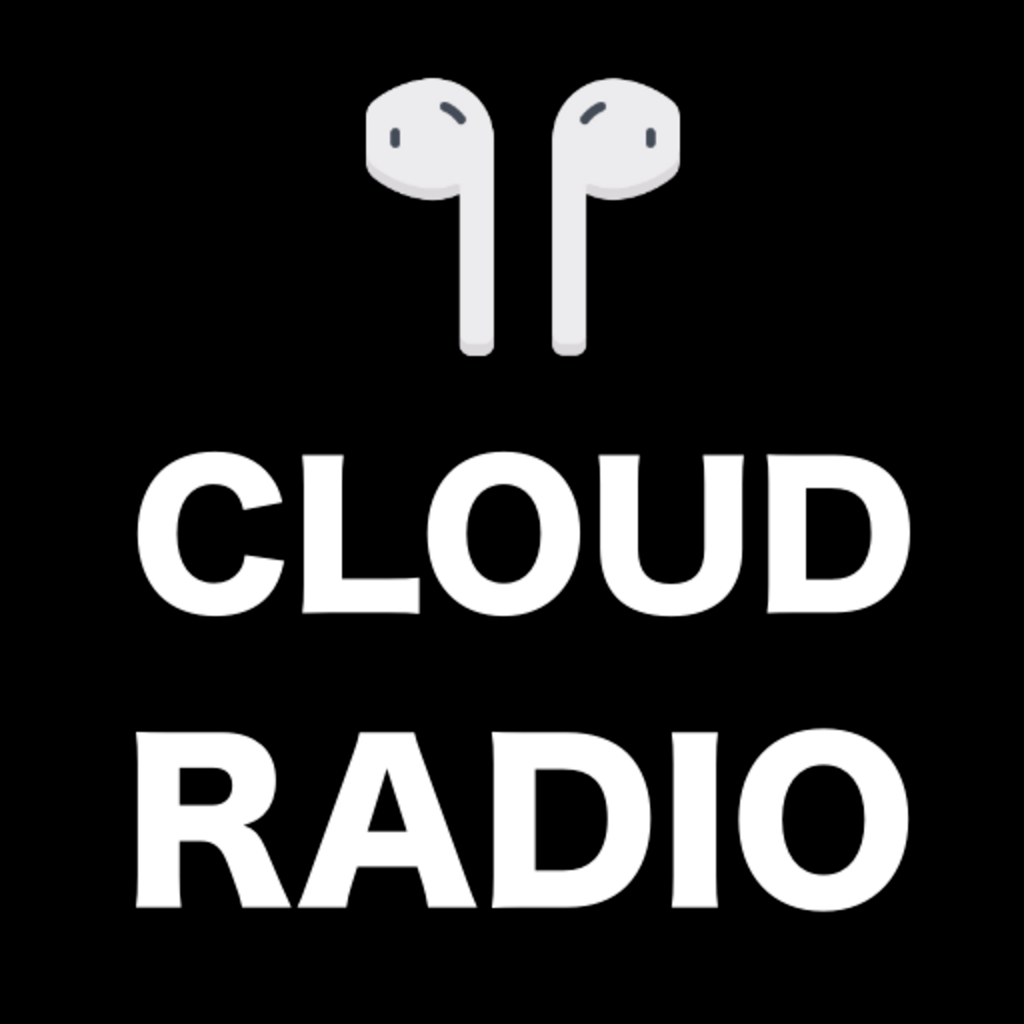
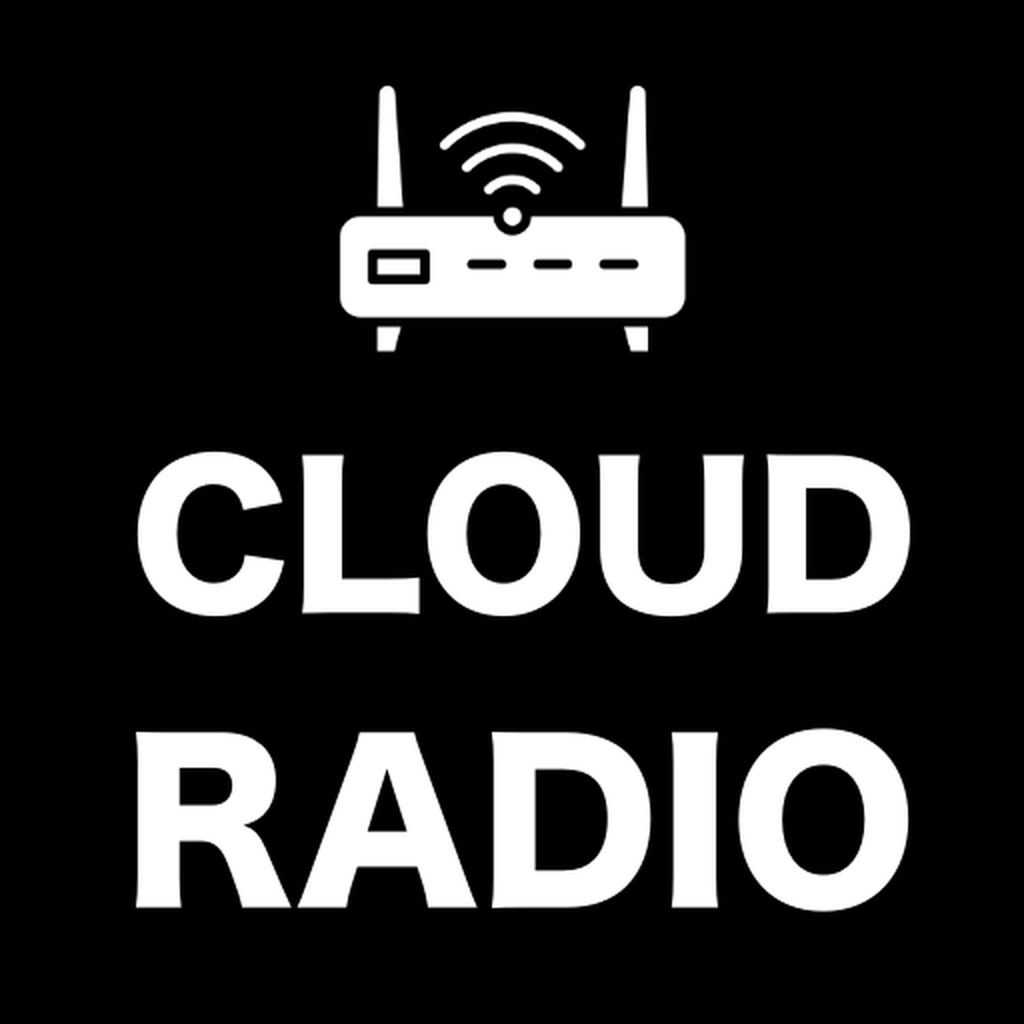
- 버전 변경(1.4) - 앱 아이콘 변경 - awesome 기능 해제 시 동작 구현 추가

Changed region(s): [[0.3125, 0.0625, 0.6875, 0.3438]]

diff --git a/cloudRadio/MainViewController.swift b/cloudRadio/MainViewController.swift
@@ -49,6 +49,7 @@ extension Notification.Name {
     static let callTestTimeSettingMain = Notification.Name("callTestTimeSettingMain")
     static let startRadioTimerSettingsMain = Notification.Name("startRadioTimerSettingsMain")
     static let stopRadioTimerSettingsMain = Notification.Name("stopRadioTimerSettingsMain")
+    static let updateSideMenu = Notification.Name("updateSideMenu")
 }
 
 class MainViewController: UIViewController {
@@ -84,14 +85,14 @@ class MainViewController: UIViewController {
         
         // load specialFeatures
         if let appInfo = CloudRadioUtils.loadJsonFile() {
-            print("Found app info json")
+            Log.print("Found app info json")
             if ( appInfo.isUnlocked ) {
-                print("Making awesome")
+                Log.print("Making awesome")
                 CloudRadioShareValues.isUnlocked = appInfo.isUnlocked
                 CloudRadioShareValues.versionString = CloudRadioShareValues.versionString + " (Awesome!)"
             }
         } else {
-            print("Can't load app info json.")
+            Log.print("Can't load app info json.")
         }
         
         
@@ -159,6 +160,8 @@ class MainViewController: UIViewController {
         
         NotificationCenter.default.addObserver(self, selector: #selector(stopRadioTimerSettingsMain(_:)), name: .stopRadioTimerSettingsMain, object: nil)
         NotificationCenter.default.addObserver(self, selector: #selector(startRadioTimerSettingsMain(_:)), name: .startRadioTimerSettingsMain, object: nil)
+        
+        NotificationCenter.default.addObserver(self, selector: #selector(updateSideMenuMain(_:)), name: .updateSideMenu, object: nil)
 
         DispatchQueue.global().async {
             self.playerDelegate?.setupRemoteCommandCenter()
@@ -336,21 +339,35 @@ class MainViewController: UIViewController {
             Log.print("(ERROR) play info is invalid")
             return
         }
+        var info: PlayInfo? = nil
+        var curIdx = MainViewController.currentChannelIdx
+        let menuCount = SideMenuViewController.menu.count
+        let lockedMenuCount = SideMenuViewController.lockedMenu.count
+        var title = channelName
         
-        var idx = RadioChannelResources.getIndexByName(channelName: channelName)
-        Log.print("cur) Idx(\(idx)/\(RadioChannelResources.CHANNELS.count-1)) - channelName(\(channelName))")
-        
-        if ( idx == 0 ) {
-            idx = (RadioChannelResources.CHANNELS.count-1)
+        if ( CloudRadioShareValues.isUnlocked ) {
+            Log.print("cur) Idx(\(curIdx)/\(menuCount-1)) - channelName(\(channelName))")
+            if ( curIdx == 0 ) {
+                curIdx = (menuCount-1)
+            } else {
+                curIdx-=1
+            }
+            Log.print("next) Idx(\(curIdx)/\(menuCount-1)) - channelName(\(SideMenuViewController.menu[curIdx].title))")
+            title = SideMenuViewController.menu[curIdx].title
         } else {
-            idx-=1
+            Log.print("cur) Idx(\(curIdx)/\(lockedMenuCount-1)) - channelName(\(channelName))")
+            if ( curIdx == 0 ) {
+                curIdx = (lockedMenuCount-1)
+            } else {
+                curIdx-=1
+            }
+            Log.print("next) Idx(\(curIdx)/\(lockedMenuCount-1)) - channelName(\(SideMenuViewController.lockedMenu[curIdx].title))")
+            title = SideMenuViewController.lockedMenu[curIdx].title
         }
-        Log.print("next) Idx(\(idx)/\(RadioChannelResources.CHANNELS.count-1)) - channelName(\(RadioChannelResources.CHANNELS[idx].name))")
-
-        let info = RadioChannelResources.getChannel(title: RadioChannelResources.CHANNELS[idx].name)
+            
+        info = RadioChannelResources.getChannel(title: title)
         NotificationCenter.default.post(name: .startRadioMain, object: info)
-        
-        updateSideMenu(idx: idx)
+        updateSideMenu(idx: curIdx)
     }
     
     @objc func skipRadioMain(_ notification: NSNotification) {
@@ -359,20 +376,35 @@ class MainViewController: UIViewController {
             return
         }
         
-        var idx = RadioChannelResources.getIndexByName(channelName: channelName)
-        Log.print("cur) Idx(\(idx)/\(RadioChannelResources.CHANNELS.count-1)) - channelName(\(channelName))")
+        var info: PlayInfo? = nil
+        var curIdx = MainViewController.currentChannelIdx
+        let menuCount = SideMenuViewController.menu.count
+        let lockedMenuCount = SideMenuViewController.lockedMenu.count
+        var title = channelName
         
-        if ( idx == (RadioChannelResources.CHANNELS.count-1) ) {
-            idx = 0
+        if ( CloudRadioShareValues.isUnlocked ) {
+            Log.print("cur) Idx(\(curIdx)/\(menuCount-1)) - channelName(\(channelName))")
+            if ( curIdx == (menuCount-1) ) {
+                curIdx = 0
+            } else {
+                curIdx+=1
+            }
+            Log.print("next) Idx(\(curIdx)/\(menuCount-1)) - channelName(\(SideMenuViewController.menu[curIdx].title))")
+            title = SideMenuViewController.menu[curIdx].title
         } else {
-            idx+=1
+            Log.print("cur) Idx(\(curIdx)/\(lockedMenuCount-1)) - channelName(\(channelName))")
+            if ( curIdx == (lockedMenuCount-1) ) {
+                curIdx = 0
+            } else {
+                curIdx+=1
+            }
+            Log.print("next) Idx(\(curIdx)/\(lockedMenuCount-1)) - channelName(\(SideMenuViewController.lockedMenu[curIdx].title))")
+            title = SideMenuViewController.lockedMenu[curIdx].title
         }
-        Log.print("next) Idx(\(idx)/\(RadioChannelResources.CHANNELS.count-1)) - channelName(\(RadioChannelResources.CHANNELS[idx].name))")
-
-        let info = RadioChannelResources.getChannel(title: RadioChannelResources.CHANNELS[idx].name)
-        NotificationCenter.default.post(name: .startRadioMain, object: info)
         
-        updateSideMenu(idx: idx)
+        info = RadioChannelResources.getChannel(title: title)
+        NotificationCenter.default.post(name: .startRadioMain, object: info)
+        updateSideMenu(idx: curIdx)
     }
     
     @objc func stopRadioMain(_ notification: NSNotification) {
@@ -384,7 +416,7 @@ class MainViewController: UIViewController {
         CloudRadioShareValues.stopRadioTimerisActive = false
         CloudRadioShareValues.requestStopRadioTimer()
         
-        MainViewController.currentChannelIdx = -1
+//        MainViewController.currentChannelIdx = -1
         self.playerDelegate?.stopRadio()
     }
     
@@ -418,6 +450,15 @@ class MainViewController: UIViewController {
         DispatchQueue.main.async {
             self.sideMenuState(expanded: false)
             self.showViewController(viewController: UINavigationController.self, storyboardId: "HomeNavID")
+        }
+    }
+    
+    @objc func updateSideMenuMain(_ notification: NSNotification) {
+        if let idx = notification.object as? Int {
+            Log.print("updateSideMenu idx: \(idx)")
+            updateSideMenu(idx: idx)
+        } else {
+            Log.print("updateSideMenu is failed. wrong idx")
         }
     }
     

diff --git a/cloudRadio/SideMenu/SideMenuViewController.swift b/cloudRadio/SideMenu/SideMenuViewController.swift
@@ -24,7 +24,7 @@ class SideMenuViewController: UIViewController {
 
     var defaultHighlightedCell: Int = 0
 
-    var menu: [SideMenuModel] = [
+    static var menu: [SideMenuModel] = [
         SideMenuModel(icon: UIImage(systemName: "music.note")!, title: "KBS Classic FM"),
         SideMenuModel(icon: UIImage(systemName: "music.note")!, title: "MBC FM For U"),
         SideMenuModel(icon: UIImage(systemName: "music.note")!, title: "KBS Cool FM"),
@@ -41,7 +41,7 @@ class SideMenuViewController: UIViewController {
         SideMenuModel(icon: UIImage(systemName: "music.note")!, title: "AFN Legacy")
     ]
     
-    var lockedMenu: [SideMenuModel] = [
+    static var lockedMenu: [SideMenuModel] = [
         SideMenuModel(icon: UIImage(systemName: "music.note")!, title: "AFN The Eagle"),
         SideMenuModel(icon: UIImage(systemName: "music.note")!, title: "AFN The Voice"),
         SideMenuModel(icon: UIImage(systemName: "music.note")!, title: "AFN Joe Radio"),
@@ -139,9 +139,9 @@ extension SideMenuViewController: UITableViewDelegate {
 extension SideMenuViewController: UITableViewDataSource {
     func tableView(_ tableView: UITableView, numberOfRowsInSection section: Int) -> Int {
         if ( CloudRadioShareValues.isUnlocked ) {
-            return self.menu.count
+            return SideMenuViewController.menu.count
         } else {
-            return self.lockedMenu.count
+            return SideMenuViewController.lockedMenu.count
         }
     }
 
@@ -149,11 +149,11 @@ extension SideMenuViewController: UITableViewDataSource {
         guard let cell = tableView.dequeueReusableCell(withIdentifier: SideMenuCell.identifier, for: indexPath) as? SideMenuCell else { fatalError("xib doesn't exist") }
                 
         if ( CloudRadioShareValues.isUnlocked ) {
-            cell.iconImageView.image = self.menu[indexPath.row].icon
-            cell.titleLabel.text = self.menu[indexPath.row].title
+            cell.iconImageView.image = SideMenuViewController.menu[indexPath.row].icon
+            cell.titleLabel.text = SideMenuViewController.menu[indexPath.row].title
         } else {
-            cell.iconImageView.image = self.lockedMenu[indexPath.row].icon
-            cell.titleLabel.text = self.lockedMenu[indexPath.row].title
+            cell.iconImageView.image = SideMenuViewController.lockedMenu[indexPath.row].icon
+            cell.titleLabel.text = SideMenuViewController.lockedMenu[indexPath.row].title
         }
         // Highlighted color
         let myCustomSelectionColorView = UIView()
@@ -164,9 +164,9 @@ extension SideMenuViewController: UITableViewDataSource {
 
     func tableView(_ tableView: UITableView, didSelectRowAt indexPath: IndexPath) {
         if ( CloudRadioShareValues.isUnlocked ) {
-            self.delegate?.selectedCell(indexPath.row, title: self.menu[indexPath.row].title)
+            self.delegate?.selectedCell(indexPath.row, title: SideMenuViewController.menu[indexPath.row].title)
         } else {
-            self.delegate?.selectedCell(indexPath.row, title: self.lockedMenu[indexPath.row].title)
+            self.delegate?.selectedCell(indexPath.row, title: SideMenuViewController.lockedMenu[indexPath.row].title)
         }
         // Remove highlighted color when you press the 'Profile' and 'Like us on facebook' cell
 //        if indexPath.row == 4 || indexPath.row == 6 {

diff --git a/cloudRadio/Views/Cell/ProgramInfoCell.swift b/cloudRadio/Views/Cell/ProgramInfoCell.swift
@@ -69,7 +69,7 @@ class ProgramInfoCell: UITableViewCell {
                   recognizer.didTapAttributedTextInLabel(label: body, inRange: NSRange(range, in: text)) {
             if ( !CloudRadioShareValues.isUnlocked ) {
                 CloudRadioShareValues.hiddenCount+=1
-                print("clicked version.... \(CloudRadioShareValues.hiddenCount)")
+                Log.print("clicked version.... \(CloudRadioShareValues.hiddenCount)")
                 if ( CloudRadioShareValues.hiddenCount >= 40 ) {
                     setUnlockFeature()
                 }
@@ -78,13 +78,28 @@ class ProgramInfoCell: UITableViewCell {
     }
     
     func setUnlockFeature() {
+        Log.print("unlock feature on!")
+        
+        // set version
         CloudRadioShareValues.versionString = CloudRadioShareValues.versionString + " (Awesome!)"
         body.text = CloudRadioShareValues.versionString
         CloudRadioShareValues.isUnlocked = true
         
+        // save unlocked flag
         let appInfo = CRAppInfo(isUnlocked: true)
-        
         CloudRadioUtils.saveJsonData(data: appInfo)
+        
+        // stop radio
+        NotificationCenter.default.post(name: .stopRadioMain, object: nil)
+        
+        // reset side menu
+        let idx = SideMenuViewController.menu.count - SideMenuViewController.lockedMenu.count + MainViewController.currentChannelIdx
+        Log.print("cur idx: \(MainViewController.currentChannelIdx) -> \(idx)")
+        NotificationCenter.default.post(name: .updateSideMenu, object: Int(idx))
+        
+        // start radio
+        let info = RadioChannelResources.getChannel(title: SideMenuViewController.menu[idx].title)
+        NotificationCenter.default.post(name: .startRadioMain, object: info)
     }
     
     func goToContactToByEmail(address: String) {

diff --git a/cloudRadio/Utils/CloudRadioUtils.swift b/cloudRadio/Utils/CloudRadioUtils.swift
@@ -248,11 +248,11 @@ class CloudRadioUtils {
     }
     
     static func saveJsonData(data: CRAppInfo) {
-        print("saveJsonData")
+        Log.print("saveJsonData")
         let jsonEncoder = JSONEncoder()
         do {
             let encodedData = try jsonEncoder.encode(data)
-            print(String(data: encodedData, encoding: .utf8)!)
+            Log.print(String(data: encodedData, encoding: .utf8)!)
             
             guard let documentDirectoryUrl = FileManager.default.urls(for: .documentDirectory, in: .userDomainMask).first else { return }
             let fileURL = documentDirectoryUrl.appendingPathComponent("CRAppInfo.json")
@@ -260,15 +260,15 @@ class CloudRadioUtils {
             do {
                 try encodedData.write(to: fileURL)
             } catch let error as NSError {
-                print(error)
+                Log.print(error)
             }
         } catch {
-            print(error)
+            Log.print(error)
         }
     }
     
     static func loadJsonFile() -> CRAppInfo? {
-        print("loadJsonData")
+        Log.print("loadJsonData")
         let jsonDecoder = JSONDecoder()
         
         do {
@@ -280,7 +280,7 @@ class CloudRadioUtils {
             let decodedCRAppInfo = try jsonDecoder.decode(CRAppInfo.self, from: jsonData)
             return decodedCRAppInfo
         } catch {
-            print(error)
+            Log.print(error)
             return nil
         }
     }

diff --git a/cloudRadio/Radio/RadioPlayer.swift b/cloudRadio/Radio/RadioPlayer.swift
@@ -32,8 +32,8 @@ class RadioPlayer {
     static var curPlayInfo: PlayInfo? = nil
 
     func setRadioPlayerDefaultValues() {
-        RadioPlayer.curChannelName = "CloudRadio"
-        RadioPlayer.curProgramName = "OnAir Ready"
+//        RadioPlayer.curChannelName = "CloudRadio"
+//        RadioPlayer.curProgramName = "OnAir Ready"
         RadioPlayer.curAlbumUrl = nil
         RadioPlayer.curChannelUrl = nil
         RadioPlayer.curAlbumImg = nil

diff --git a/cloudRadio/Utils/CloudRadioShareValues.swift b/cloudRadio/Utils/CloudRadioShareValues.swift
@@ -10,7 +10,7 @@ import UIKit
 
 class CloudRadioShareValues {
     // Version
-    static var versionString = "v1.3"
+    static var versionString = "v1.4"
     
     // hidden count
     static var isUnlocked = false
